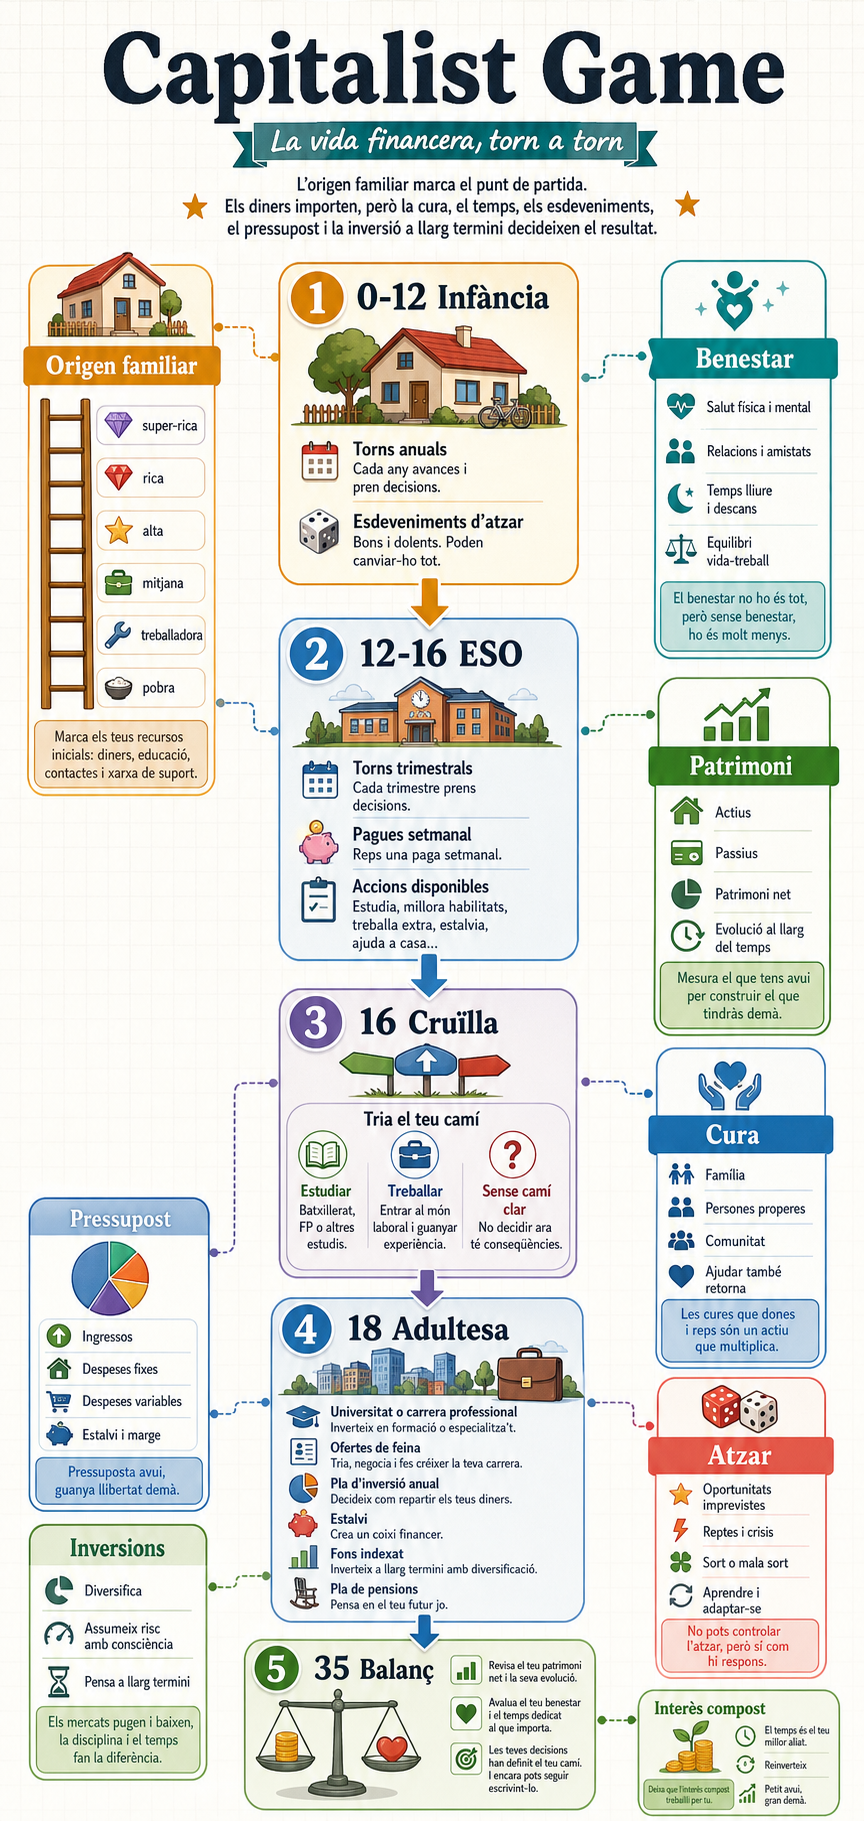
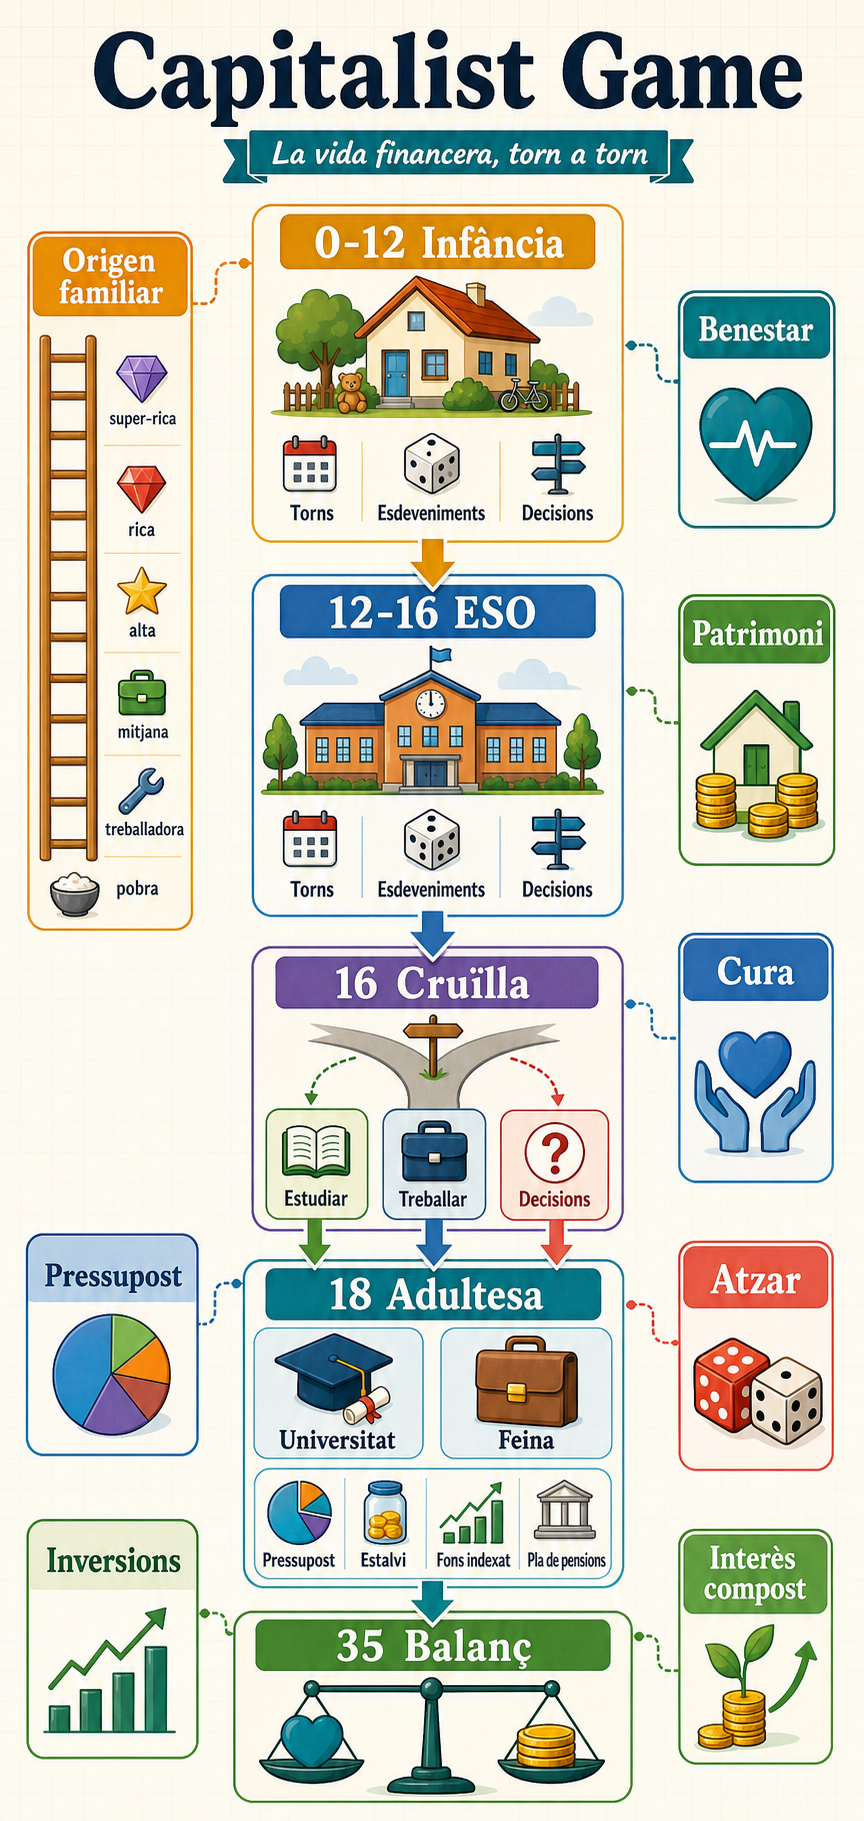
Calibració: restaurar la cua de mobilitat del pobre cap a l'objectiu
WS1 augmentava la freqüència que la família pobra demana diners (×1.6) i, com
que el harness sempre paga, drenava el pobre i baixava la cua d'escapada a ~1.8%.
La coherència buscada era que el RIC no demani diners, no que el pobre en demani
més. Es dialoga AJUT_FAMILIA_PES perquè el pobre quedi a la freqüència original i
només els acomodats en quedin (gairebé) exclosos. Cua del pobre (estudis) torna a
~2.5%, dins l'esperit de §8.4; la resta de la corba intacta (pobre ≤20, ric alt
amb cua de mala sort, discriminació interseccional).

diff --git a/src/domain/events/adult.ts b/src/domain/events/adult.ts
@@ -6,9 +6,9 @@ import type { FamilyClass, GameEvent } from '../types'
 // (els pares no et demanen diners; si de cas, te'n donen). Corregeix la incoherència que una
 // família super-rica "passi un mal moment" i et demani diners.
 const AJUT_FAMILIA_PES: Record<FamilyClass, number> = {
-  pobra: 1.6,
-  treballadora: 1.3,
-  mitjana: 0.8,
+  pobra: 1,
+  treballadora: 0.9,
+  mitjana: 0.6,
   alta: 0.3,
   rica: 0.1,
   super_rica: 0.05,